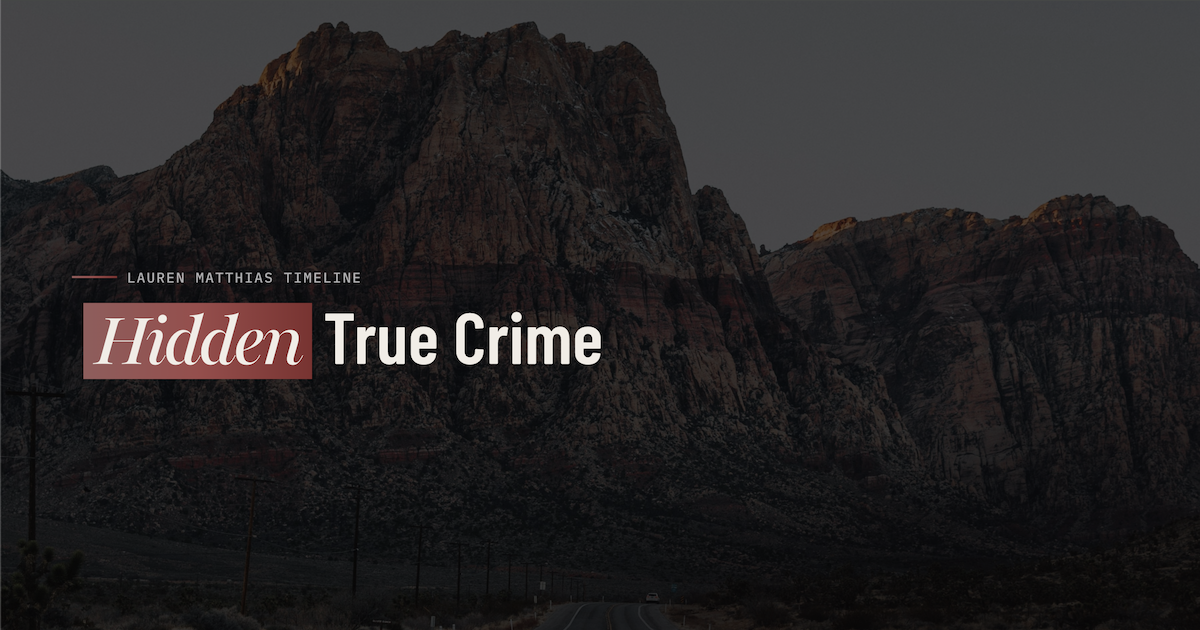
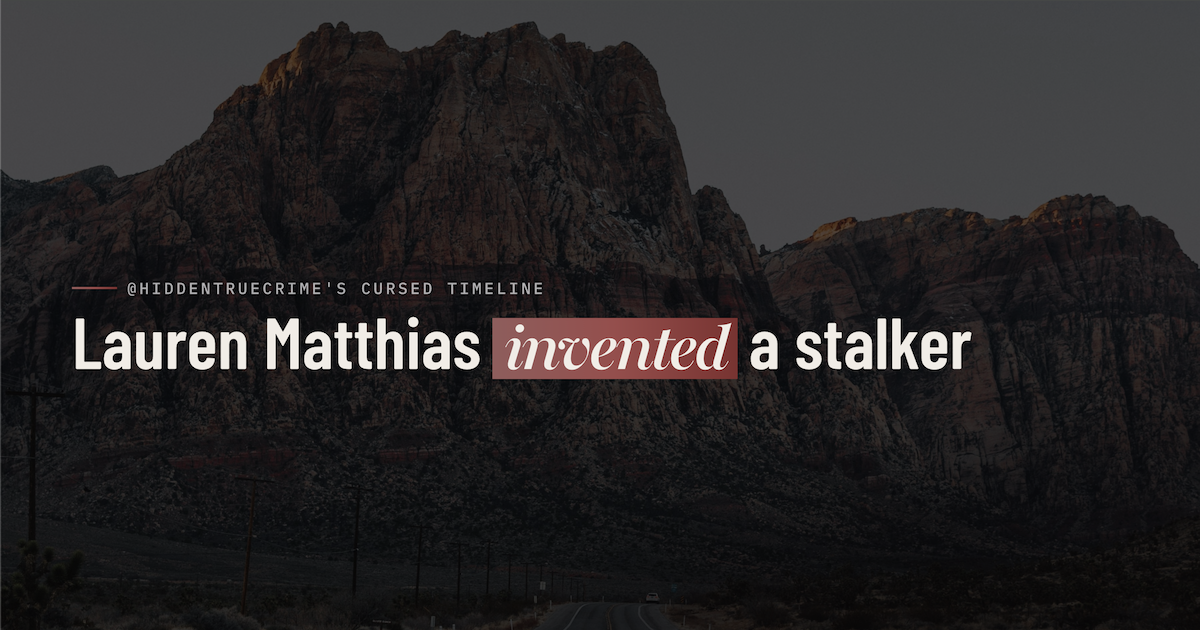
preview img

Changed region(s): [[0.0617, 0.4222, 0.8325, 0.6032]]

diff --git a/assets/img/preview-template.html b/assets/img/preview-template.html
@@ -12,7 +12,7 @@
   <meta property="og:description" content="Template and boiler plate meta tag info">
   <meta property="og:type" content="website">
   <meta property="og:url" content="https://subtxpress.github.io/home/index">
-  <meta property="og:image" content="https://subtxpress.github.io/home/assets/img/homee.png">
+  <meta property="og:image" content="https://subtxpress.github.io/home/assets/img/home.png">
   <meta property="og:image:width" content="1200">
   <meta property="og:image:height" content="630">
   <meta property="og:site_name" content="Subtxt Press">
@@ -154,7 +154,7 @@
     font-size: 4.5rem;
     line-height: 0.85;
     letter-spacing: -0.05em;
-    font-style: none;
+    font-style: italic;
     padding: 0 1%;
     margin: 0 1%;
   }
@@ -169,9 +169,9 @@
     <div class="main">
       <div class="cover-eyebrow">
         <div class="eyebrow-rule"></div>
-        <div class="eyebrow-label">Court Filings <span class="lowercase">and</span> Analysis</div>
+        <div class="eyebrow-label">@HiddenTrueCrime's cursed timeline</div>
       </div>
-      <div class="cover-head"><span class="sub-head">Hasan Piker v.</span>Scott Jennings</div>
+      <div class="cover-head">Lauren Matthias<span class="sub-head">invented</span>a stalker</div>
     </div>
 
 </body>
